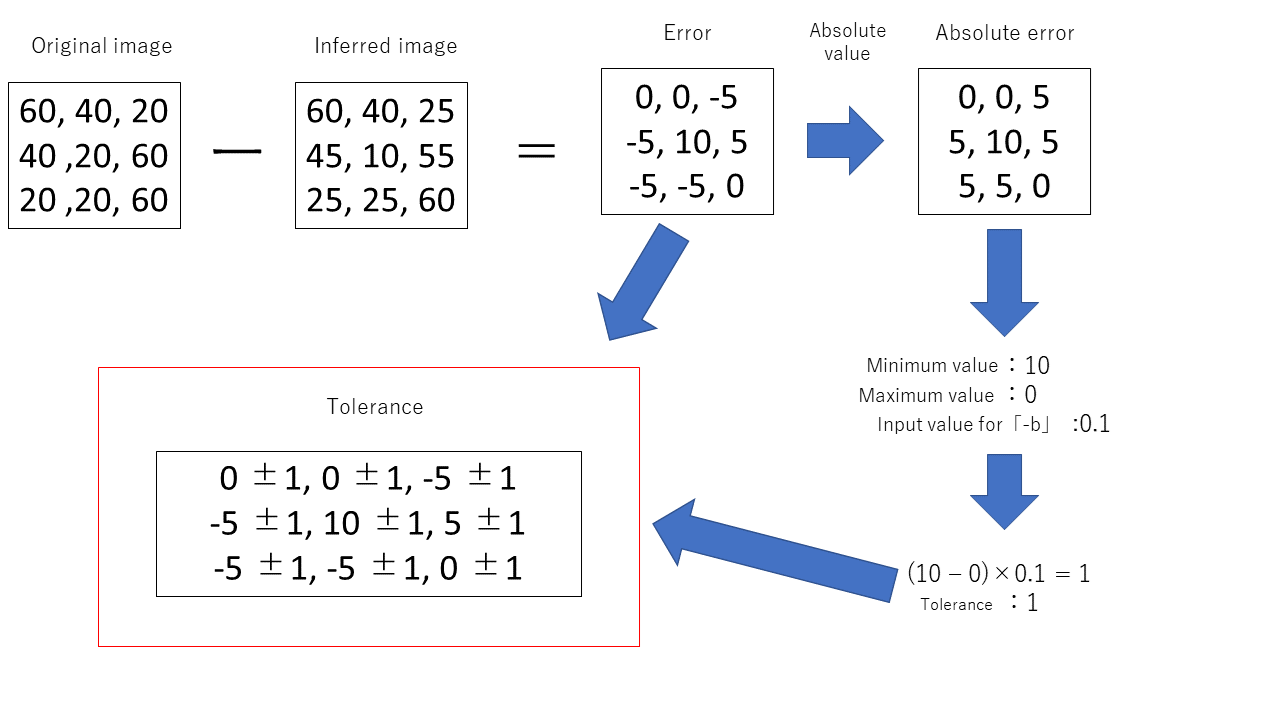
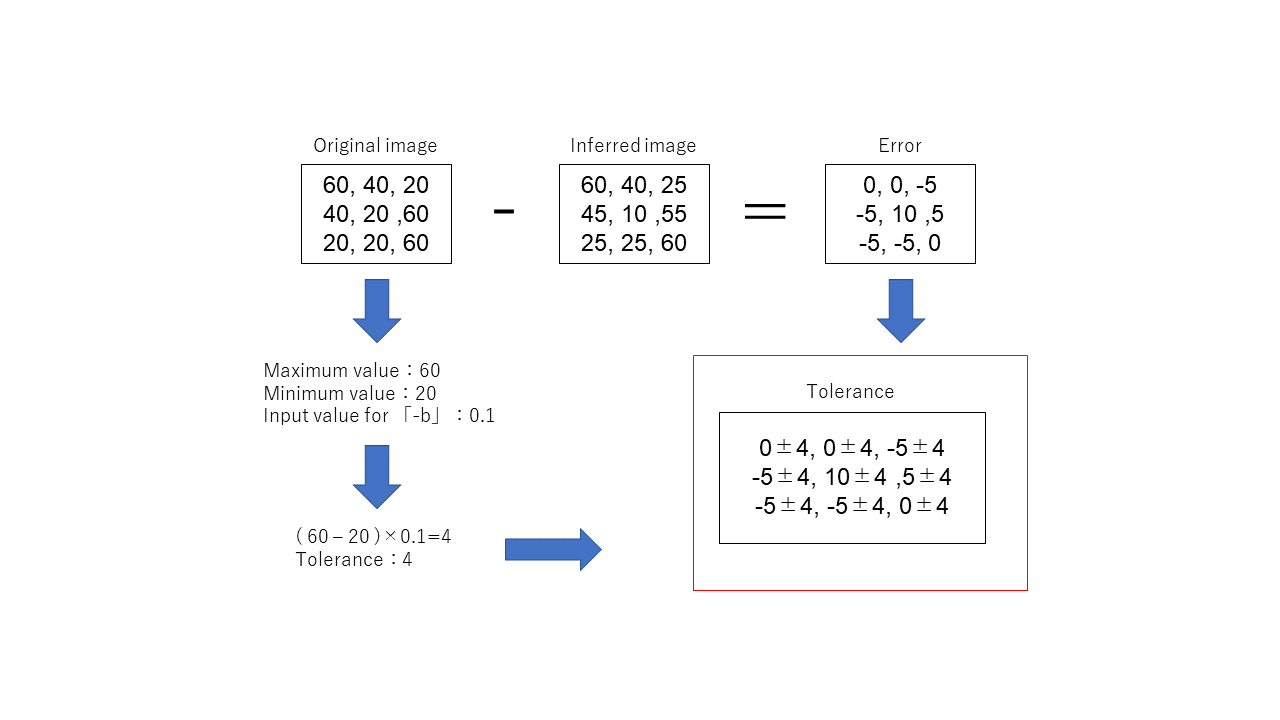
Update docs/index.rst

diff --git a/docs/index.rst b/docs/index.rst
@@ -364,6 +364,22 @@ This system uses "Pillow" for loading images, which supports the following image
 
 For more information about all the formats supported by Pillow, please refer to `the Pillow documentation page  <https://pillow.readthedocs.io/en/stable/handbook/image-file-formats.html>`_
 
+Supported image modes
+''''''''''''''''''''''''''''''
+
+Supported image modes differ between the learning mechanism and the compression/decompression mechanism, and are as follows.
+
+**learning mechanism**
+
+* All formats supported by Pillow (details can be found on the `Pillow documentation page <https://pillow.readthedocs.io/en/stable/handbook/concepts.html>`_)
+
+**compression/decompression mechanism**
+
+* RGB
+* Gray Scale
+
+As a point of caution, it is internally processed as an image in RGB mode. In other words, the learning mechanism first converts the image to RGB mode. The compression/decompression mechanism converts to RGB mode before compression and restores the original image mode after decompression.
+
 Learning data creation program
 ''''''''''''''''''''''''''''''''
 
@@ -425,7 +441,8 @@ The meaning of each argument is as follows
    :widths: 10, 25, 15
    
    "First parameter", The directory path containing the training images to be dumped into the Hkl file. ,"./data"
-   "Second parameter", Directory path to output Hkl file ,"./data_hkl"
+   "Second parameter", Directory path to output Hkl file. ,"./data_hkl"
+   "-v", "| Specifies the path of the directory used for verification among the directories specified in the first argument.Without this option, randomly determined. ", "-v ./data/sequence_1"
    
 As an execution example, the following command is used to dump to hkl.
 
@@ -664,10 +681,14 @@ Based on PredNet's training data creation program, it dumps a large number of im
 System Overview
 ....................................
 
-The learning data creation program consists of the following two blocks
+The learning data creation program consists of the following three blocks
 
+* Login to the kitti site
 * Downloading and decompression of image data
 * Dumping the data (converted to hkl files)
+
+Downloading the kitti dataset requires registration on the `kitti site <https://www.cvlibs.net/datasets/kitti/user_register.php>`_. Please register as a user in advance.
+When running the program, you need to specify the email address and password you used when registering.
 
 Downloading the data requires about 200GB of space. The breakdown is 165 GB for the zip file immediately after downloading, and 30 GB after unzipping.
 Dumping the data requires 42128 images of size 1248×376 to be stored in memory if the data is run as it is after downloading. Depending on the environment, the following error may occur due to insufficient memory.
@@ -725,23 +746,24 @@ Execute the following command.
 
 .. code-block:: sh
 
-   python kitti_train_data_create.py Output directory -d -p
+   python kitti_train_data_create.py Output directory -d <e-mail address> <password> -p
 
 The meaning of each argument is shown in the table below.
 
 .. csv-table::
-    :header: Argument, Meaning, Configuration example
-    :widths: 15, 25, 15
+    :header: Argument name, Argument Meaning,Number of inputs, Input Meaning, example
+    :widths: 10, 15, 10, 25, 15
    
-    First quotation,Directory path to output Hkl file,./data
-    -d,Flag to download the Kitti data set,-d
-    -p,Flag for processing a group of image data to change to hkl.The output directory of -d and the input/output directory of -p are common,-p
+   First quotation,Directory path to output Hkl file, \-, \-, ./data
+   -d,Flag to download the Kitti data set, 2, "| 1：Email address registered on the kitti site
+   | 2：password registered on the kitti site", -d tezip@tezip.com nfoe2fjep233af
+   -p,Flag for processing a group of image data to change to hkl.The output directory of -d and the input/output directory of -p are common,0, \-,-p
 
 As an execution example, if you want to download the data and dump it directly to hkl, you can use the following command.
 
 .. code-block:: sh
 
-   python kitti_train_data_create.py ./data -d -p
+   python kitti_train_data_create.py ./data -d tezip@tezip.com nfoe2fjep233af -p
 
 Output file
 ..........................
@@ -1093,9 +1115,9 @@ For absolute error, the value entered for "-b" is used as is to determine the to
 relative bound ratio
 ^^^^^^^^^^^^^^^^^^^^^^^^^^^
 
-The relative bound ratio determines the absolute value of the error (absolute error), then the maximum and minimum values. The maximum value minus the minimum value is then multiplied by the multiplier entered in "-b" to obtain the tolerance. The following is a formula of this content.
+In the relative bound ratio, first find the error (absolute error), then find the maximum and minimum values of the original image. The maximum value minus the minimum value is then multiplied by the multiplier entered in "-b" to obtain the tolerance. The following is a formula of this content.
 
-.. math::　Tolerance level = (Maximum value of error – Minimum value of error) × Magnification
+.. math::　Tolerance level = (Maximum value of original image – Minimum value of original image) × Magnification
 
 The following figure shows an illustration of the relative bound ratio.
 
